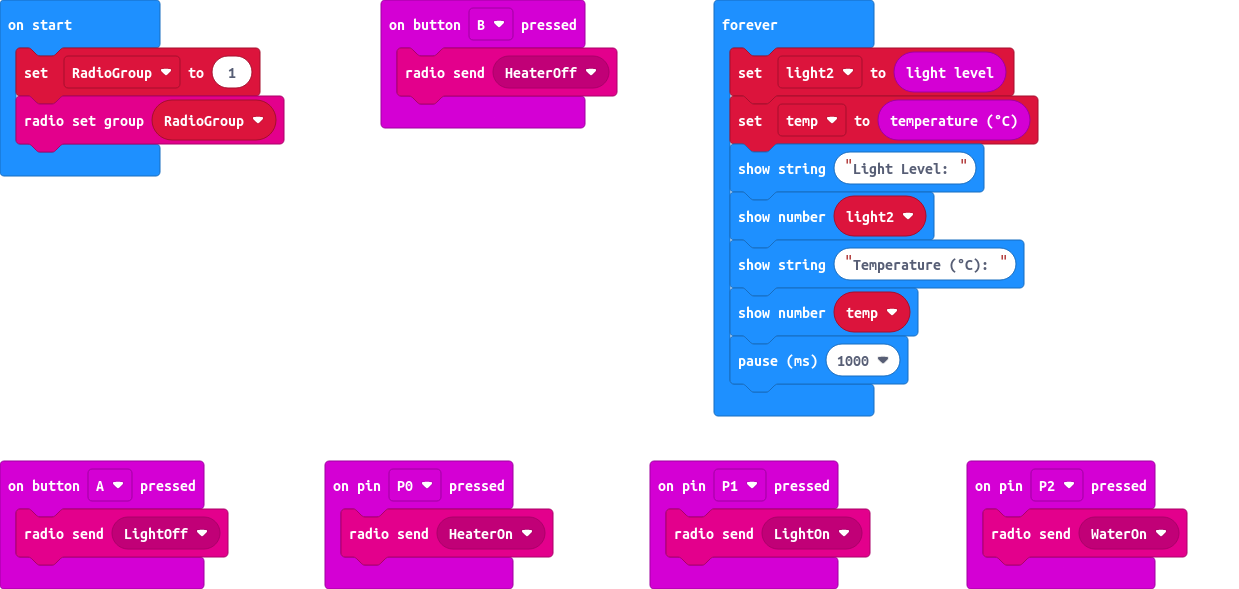
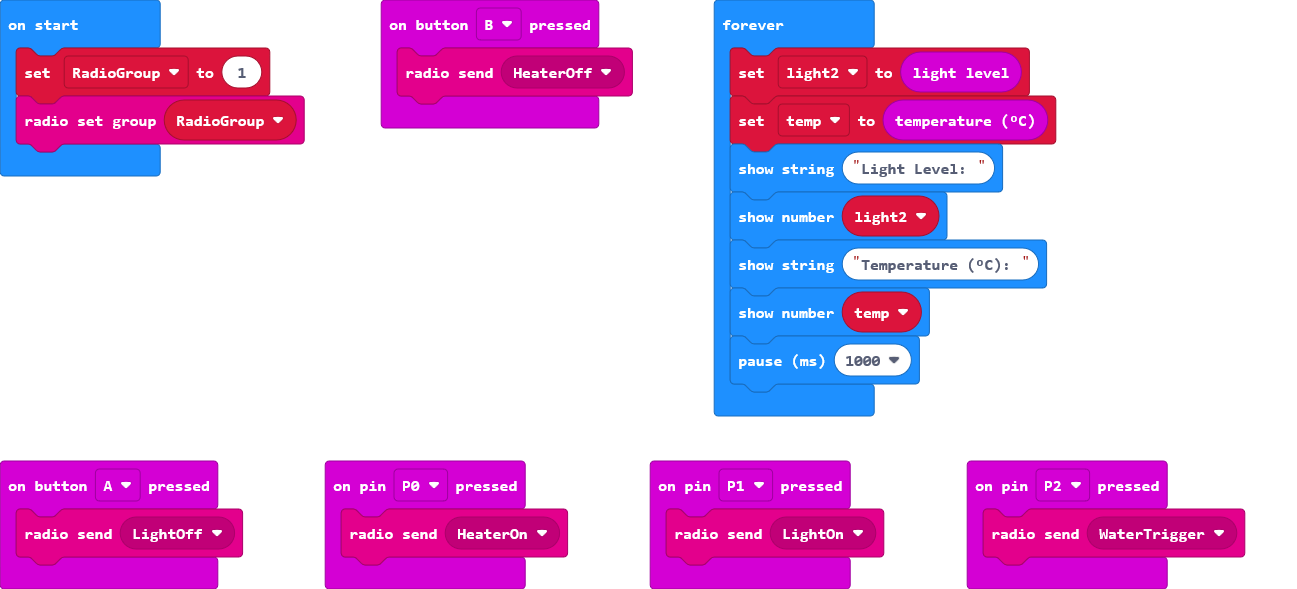
Update pxt.json, main.blocks, main.ts

diff --git a/main.ts b/main.ts
@@ -4,7 +4,8 @@ enum RadioMessage {
     LightOff = 64509,
     HeaterOn = 29523,
     HeaterOff = 54869,
-    WaterOn = 6289
+    WaterOn = 6289,
+    WaterTrigger = 8454
 }
 input.onPinPressed(TouchPin.P0, function () {
     radio.sendMessage(RadioMessage.HeaterOn)
@@ -13,7 +14,7 @@ input.onButtonPressed(Button.A, function () {
     radio.sendMessage(RadioMessage.LightOff)
 })
 input.onPinPressed(TouchPin.P2, function () {
-    radio.sendMessage(RadioMessage.WaterOn)
+    radio.sendMessage(RadioMessage.WaterTrigger)
 })
 input.onButtonPressed(Button.B, function () {
     radio.sendMessage(RadioMessage.HeaterOff)
